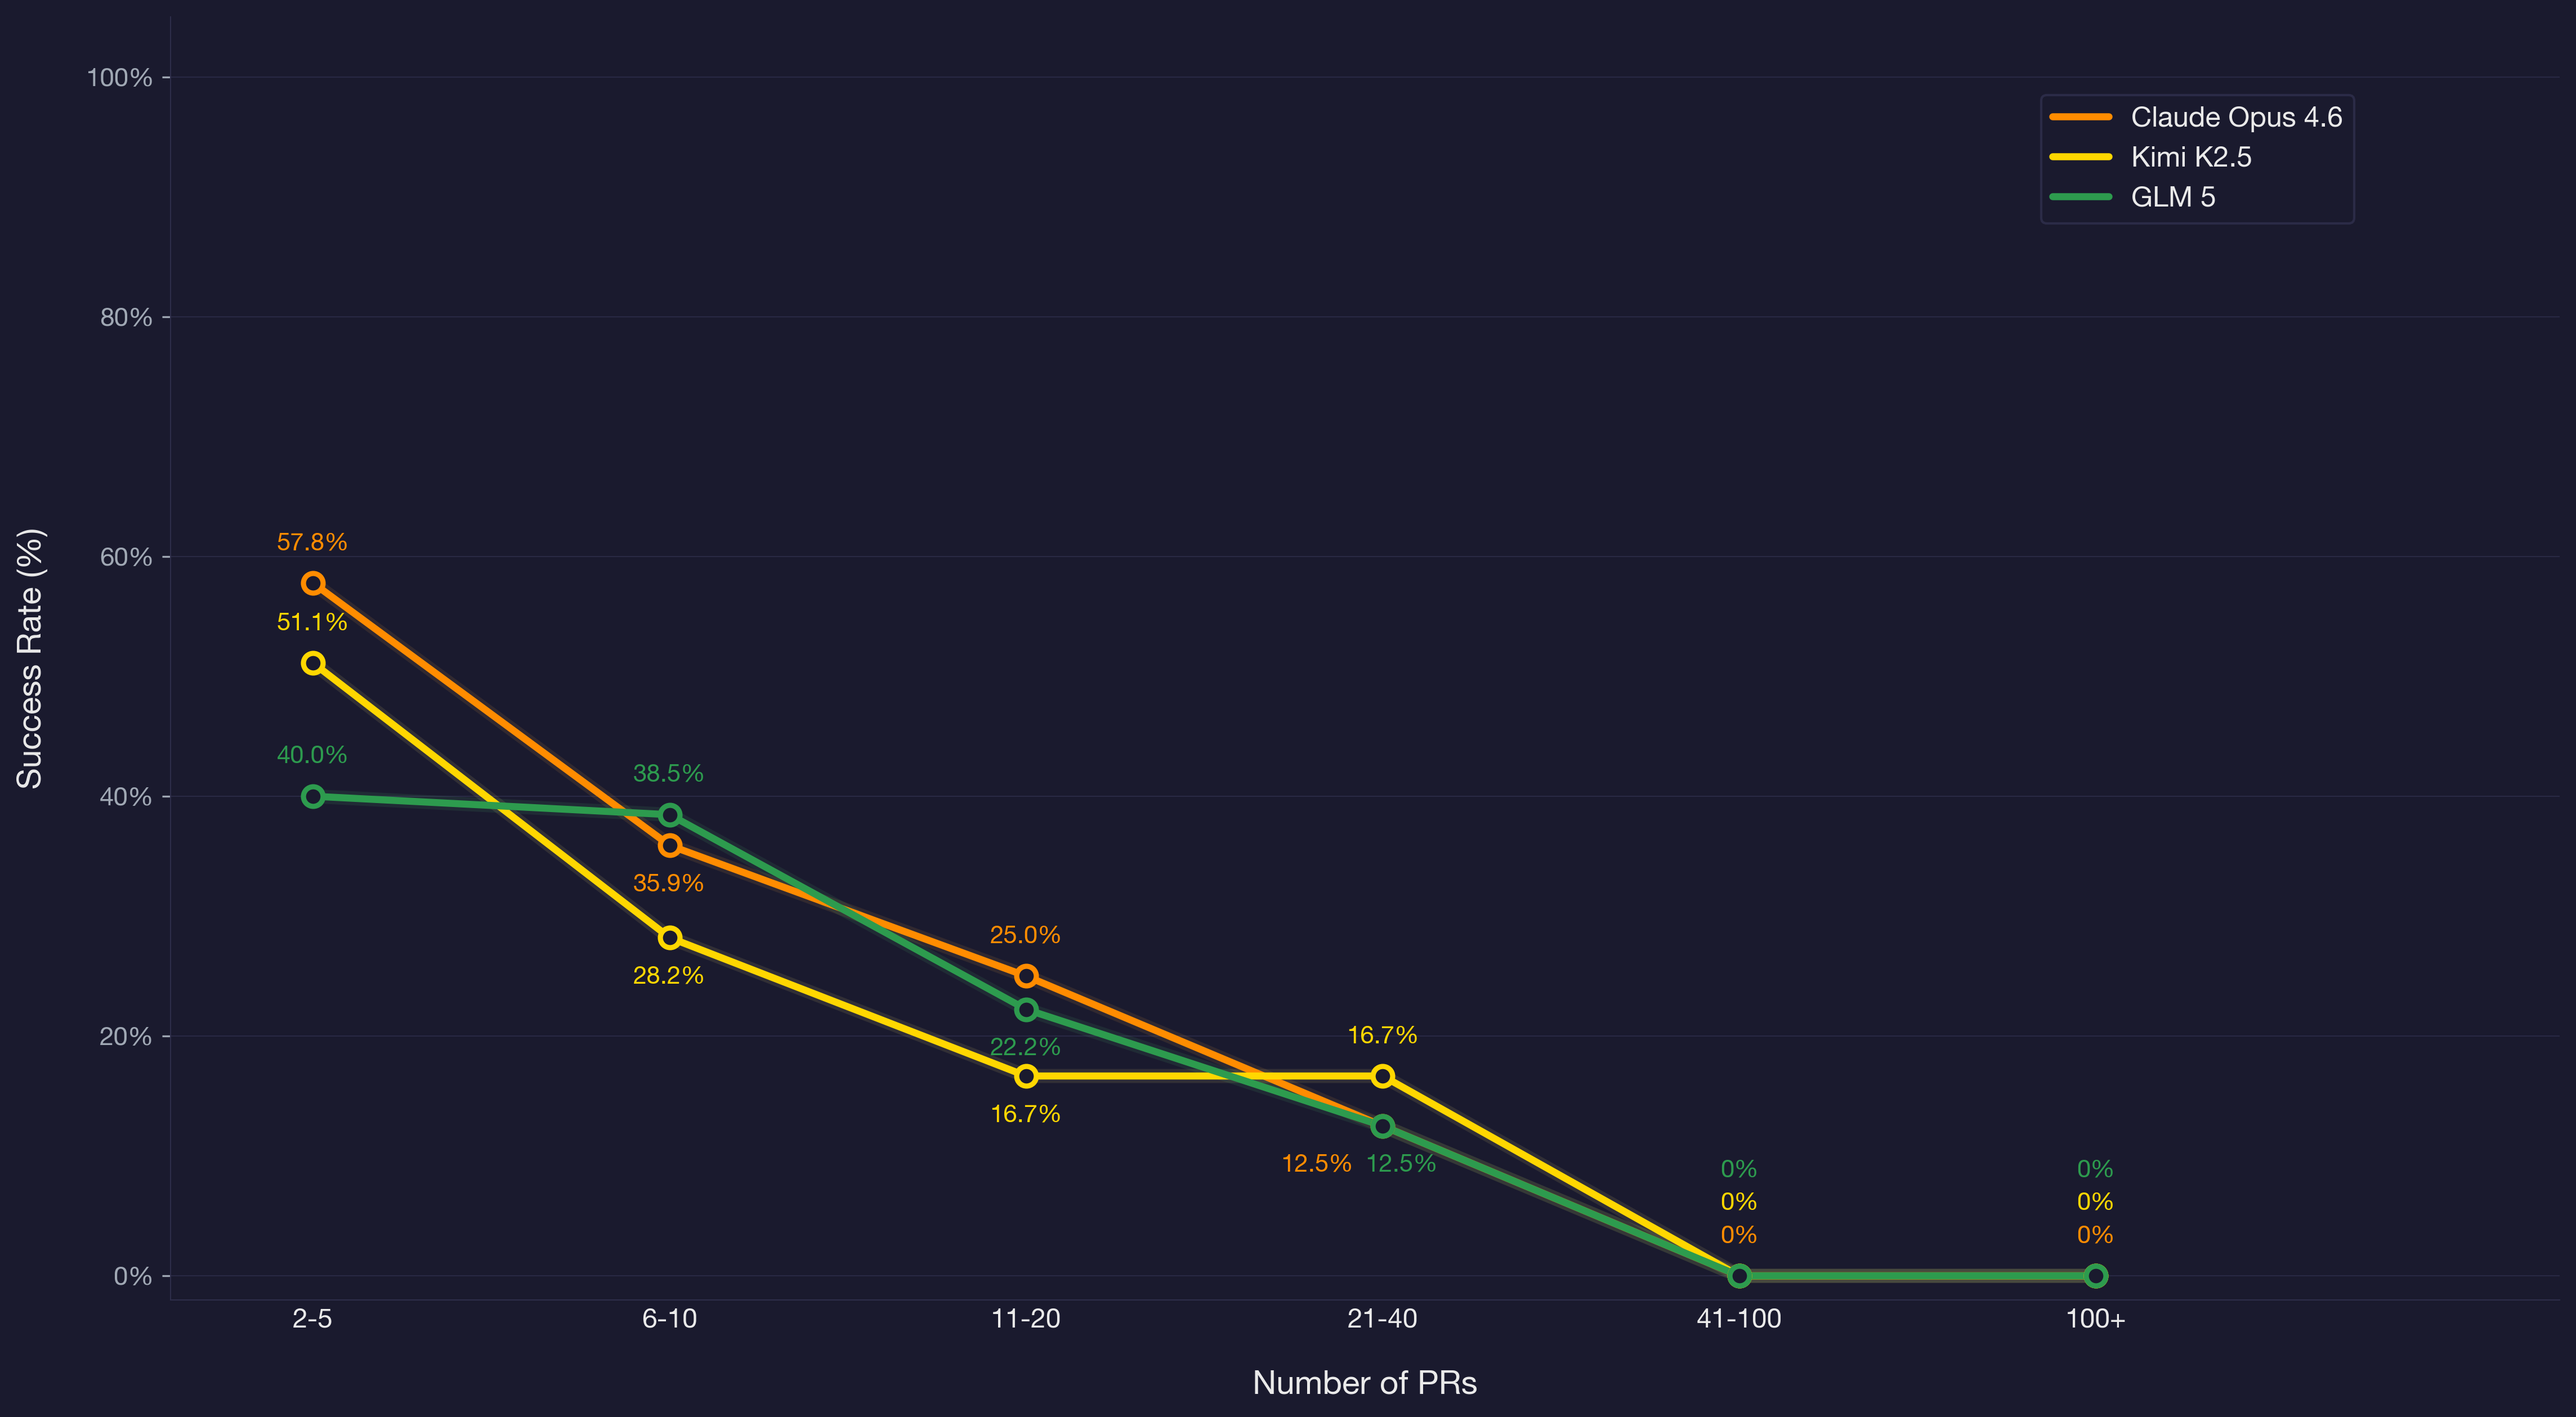
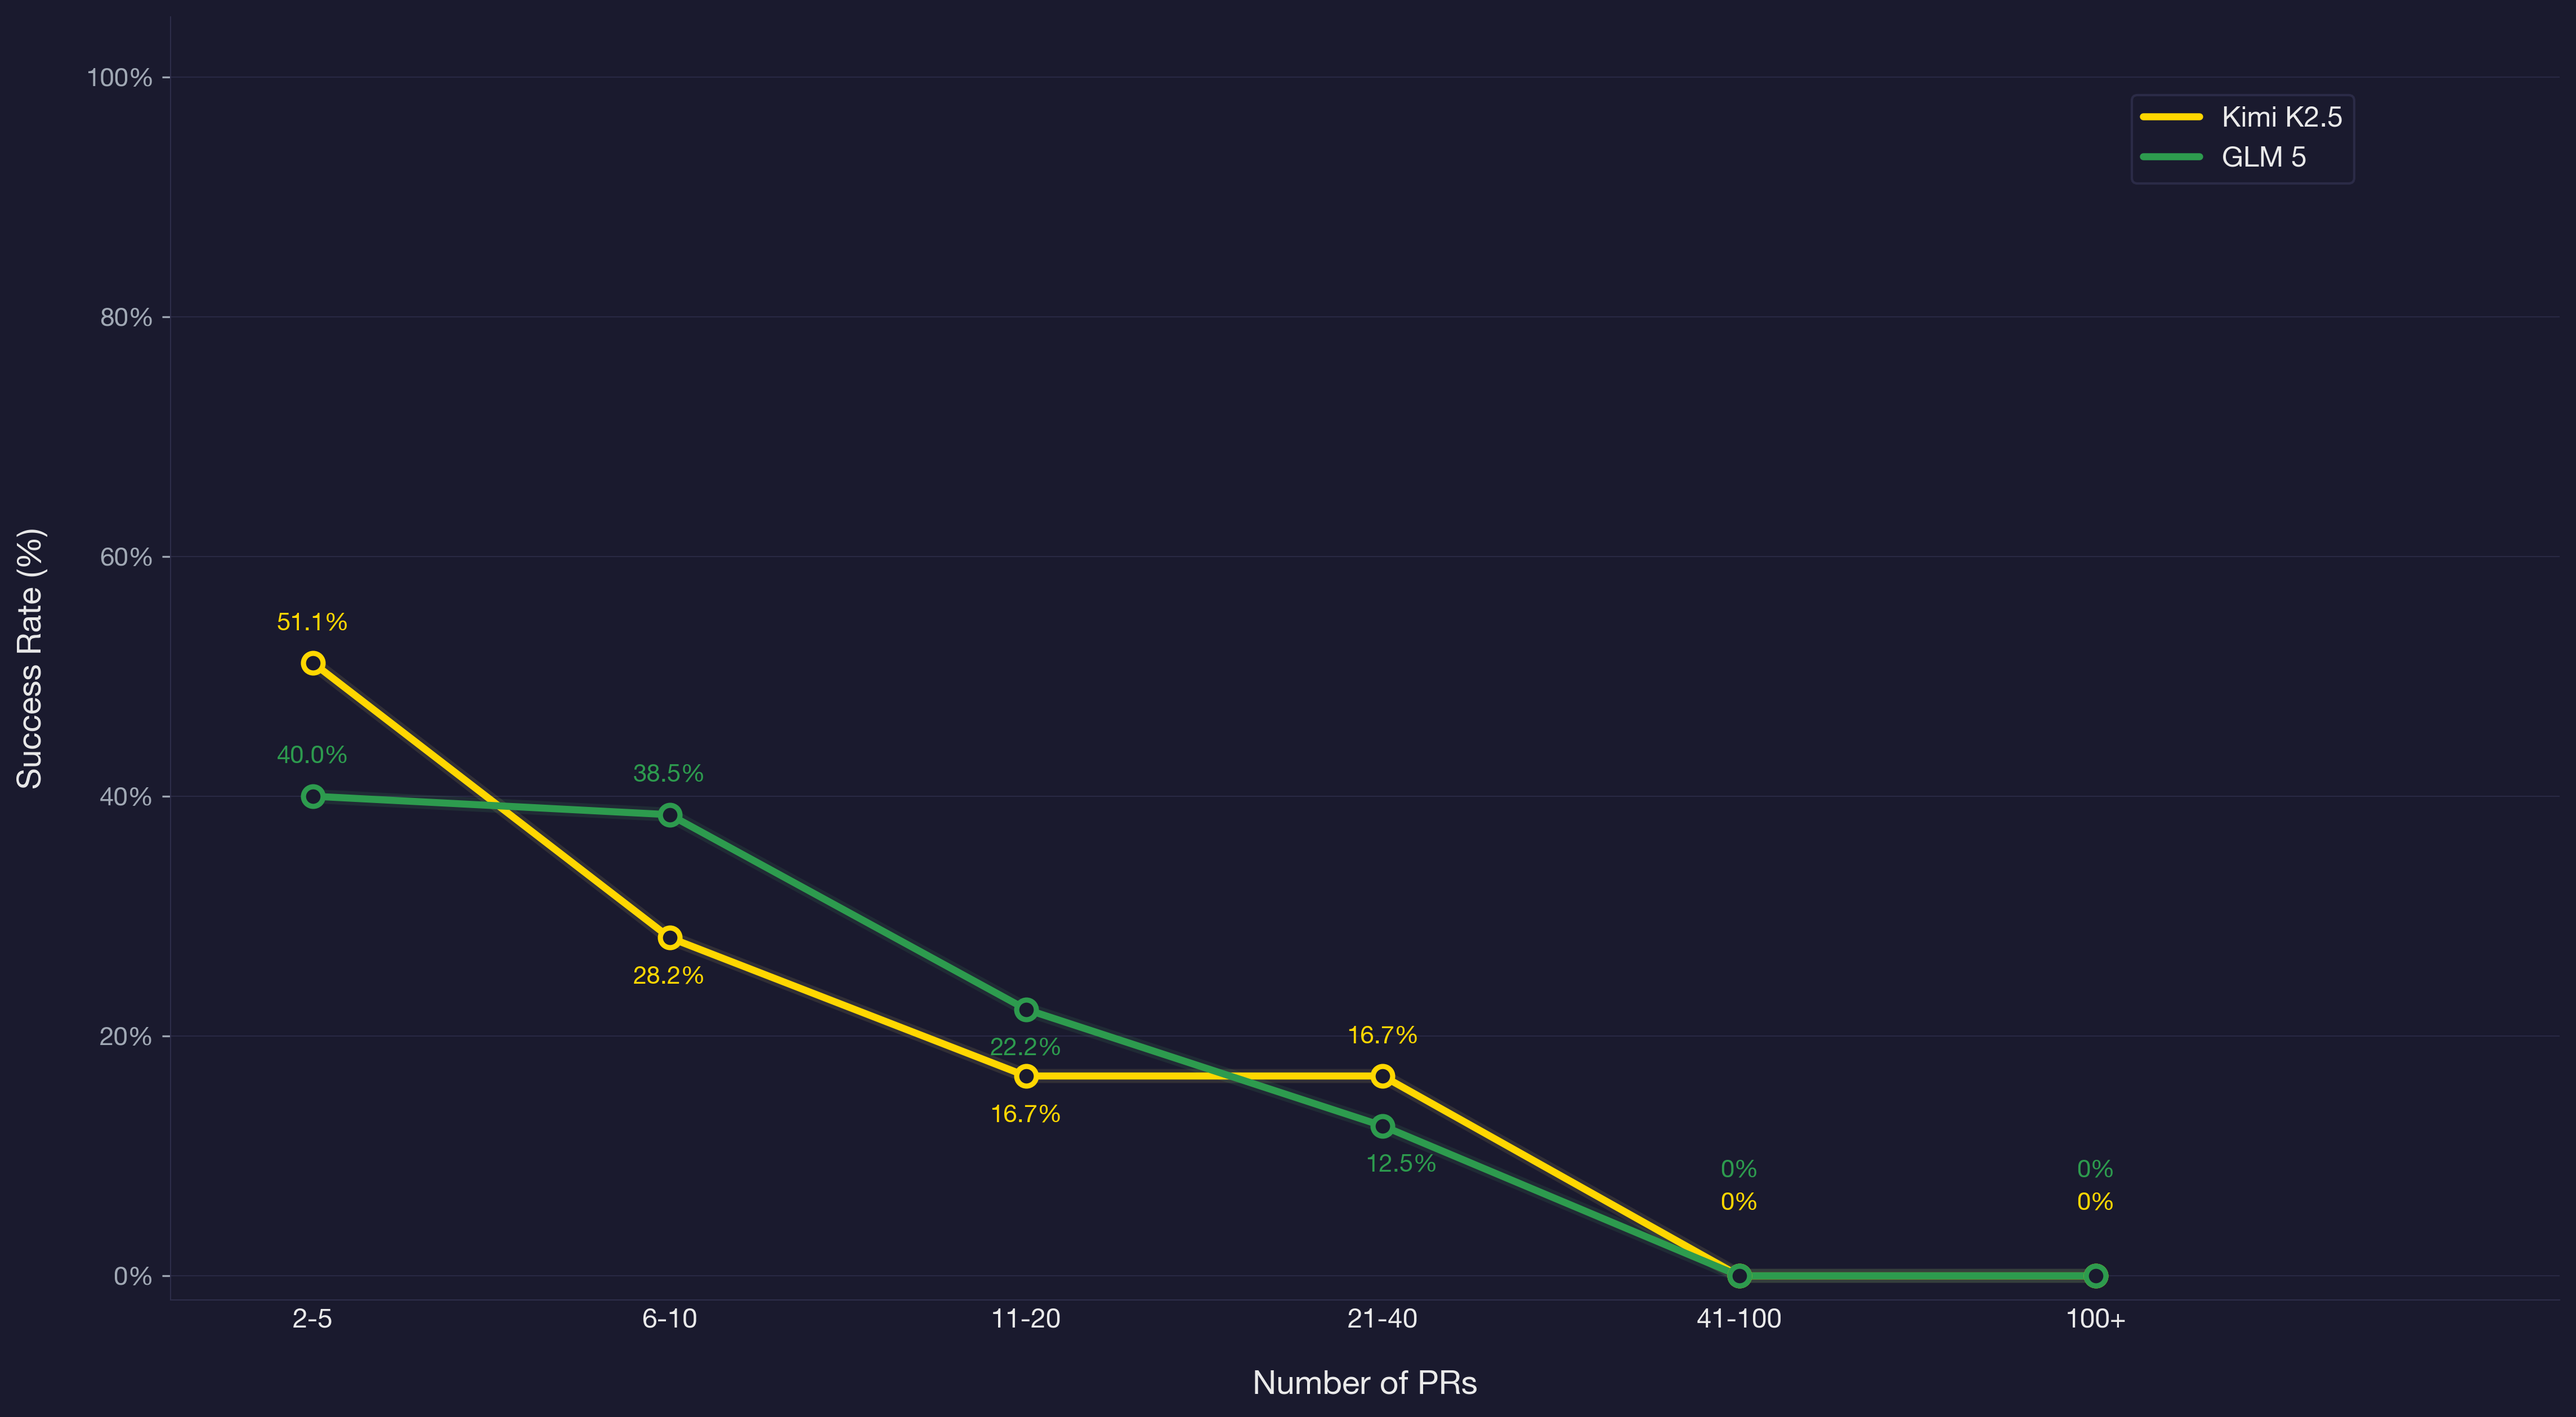
Modified Milo dahboard as per requirements

diff --git a/custom_addons/aurora_dashboard/static/src/portal/js/aurora_portal.js b/custom_addons/aurora_dashboard/static/src/portal/js/aurora_portal.js
@@ -288,7 +288,7 @@
   var evalAllData = [];
   var evalFilteredData = [];
   var evalCurrentPage = 1;
-  var evalCurrentSort = "claude_pass";
+  var evalCurrentSort = "glm_pass";
   var evalCurrentSortDir = -1;
   var evalExpandedId = null;
 
@@ -375,7 +375,6 @@
   }
 
   function evalRenderRow(d, isExpanded) {
-    var claude = d.models && d.models["Claude Opus 4.6"] ? d.models["Claude Opus 4.6"] : {};
     var glm = d.models && d.models["GLM 5"] ? d.models["GLM 5"] : {};
     var kimi = d.models && d.models["Kimi K2.5"] ? d.models["Kimi K2.5"] : {};
 
@@ -386,7 +385,6 @@
         '</td>' +
         '<td class="au-etd-prrange"><span class="au-eval-prrange-badge">' + esc(d.pr_range || "N/A") + '</span></td>' +
         '<td class="au-etd-lang"><span class="au-lang-badge ' + langClass(d.language) + '">' + esc(d.language || "N/A") + '</span></td>' +
-        '<td class="au-etd-claude">' + evalPassCell(claude.pass_at_3) + '</td>' +
         '<td class="au-etd-glm">' + evalPassCell(glm.pass_at_3) + '</td>' +
         '<td class="au-etd-kimi">' + evalPassCell(kimi.pass_at_3) + '</td>' +
         '<td class="au-etd-repo">' +
@@ -398,7 +396,6 @@
   }
 
   function evalRenderDetailRow(d) {
-    var claude = d.models && d.models["Claude Opus 4.6"] ? d.models["Claude Opus 4.6"] : {};
     var glm = d.models && d.models["GLM 5"] ? d.models["GLM 5"] : {};
     var kimi = d.models && d.models["Kimi K2.5"] ? d.models["Kimi K2.5"] : {};
 
@@ -417,7 +414,7 @@
 
     return (
       '<tr class="au-detail-row" data-eval-detail-for="' + esc(d.instance_id) + '">' +
-        '<td colspan="8">' +
+        '<td colspan="7">' +
           '<div class="au-detail-content">' +
             '<div class="au-eval-detail-grid">' +
               '<div class="au-detail-block">' +
@@ -431,7 +428,6 @@
                 '<div class="au-detail-row-item"><span class="au-detail-key">Est. Time (min)</span><span class="au-detail-val">' + (d.estimated_time || 0).toFixed(1) + '</span></div>' +
                 '<div class="au-detail-row-item"><span class="au-detail-key">PRs</span><span class="au-detail-val">' + ((d.pr_urls || []).length) + '</span></div>' +
               '</div>' +
-              modelBlock("Claude Opus 4.6", claude) +
               modelBlock("GLM 5", glm) +
               modelBlock("Kimi K2.5", kimi) +
             '</div>' +
@@ -526,11 +522,6 @@
     evalFilteredData.sort(function (a, b) {
       var av, bv;
 
-      if (key === "claude_pass") {
-        av = evalParsePass(a.models && a.models["Claude Opus 4.6"] ? a.models["Claude Opus 4.6"].pass_at_3 : "0");
-        bv = evalParsePass(b.models && b.models["Claude Opus 4.6"] ? b.models["Claude Opus 4.6"].pass_at_3 : "0");
-        return (av - bv) * dir;
-      }
       if (key === "glm_pass") {
         av = evalParsePass(a.models && a.models["GLM 5"] ? a.models["GLM 5"].pass_at_3 : "0");
         bv = evalParsePass(b.models && b.models["GLM 5"] ? b.models["GLM 5"].pass_at_3 : "0");

diff --git a/custom_addons/aurora_dashboard/static/src/portal/css/aurora_portal.css b/custom_addons/aurora_dashboard/static/src/portal/css/aurora_portal.css
@@ -1505,10 +1505,10 @@ body.au-dark-body footer .rounded-circle {
   border-color: var(--border);
 }
 
-/* eval detail grid (4-col in eval) */
+/* eval detail grid (3-col in eval) */
 .au-eval-detail-grid {
   display: grid;
-  grid-template-columns: repeat(4, 1fr);
+  grid-template-columns: repeat(3, 1fr);
   gap: 16px;
 }
 @media (max-width: 768px) {
@@ -2048,7 +2048,6 @@ body.au-dark-body footer .rounded-circle {
 .eth-instance  { width: 16%; }
 .eth-prrange   { width: 8%; }
 .eth-lang      { width: 8%; }
-.eth-claude,
 .eth-glm,
 .eth-kimi      { width: 16%; text-align: center; }
 .eth-repo      { width: 10%; }
@@ -2057,7 +2056,6 @@ body.au-dark-body footer .rounded-circle {
 .au-etd-instance  { width: 16%; }
 .au-etd-prrange   { width: 8%; }
 .au-etd-lang      { width: 8%; }
-.au-etd-claude,
 .au-etd-glm,
 .au-etd-kimi      { width: 16%; text-align: center; }
 .au-etd-repo      { width: 10%; overflow: hidden; text-overflow: ellipsis; white-space: nowrap; max-width: 0; }
